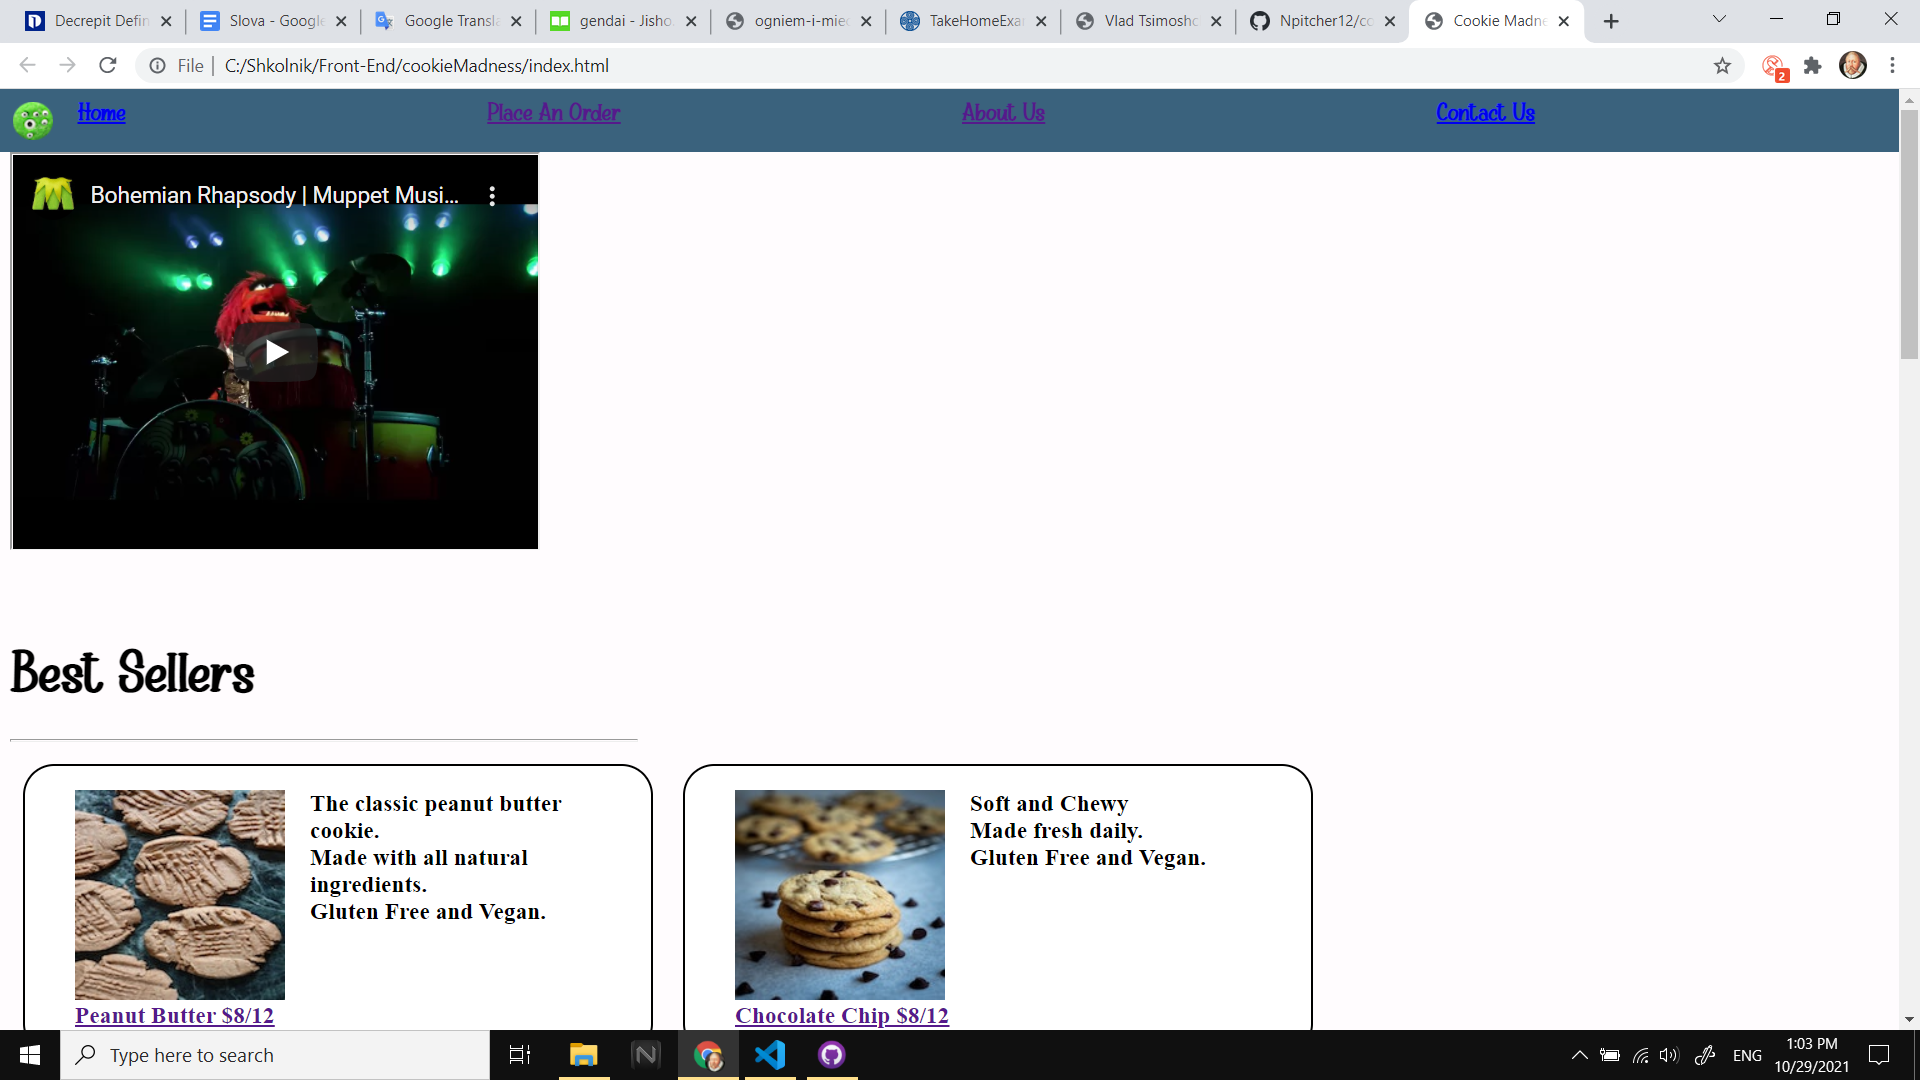
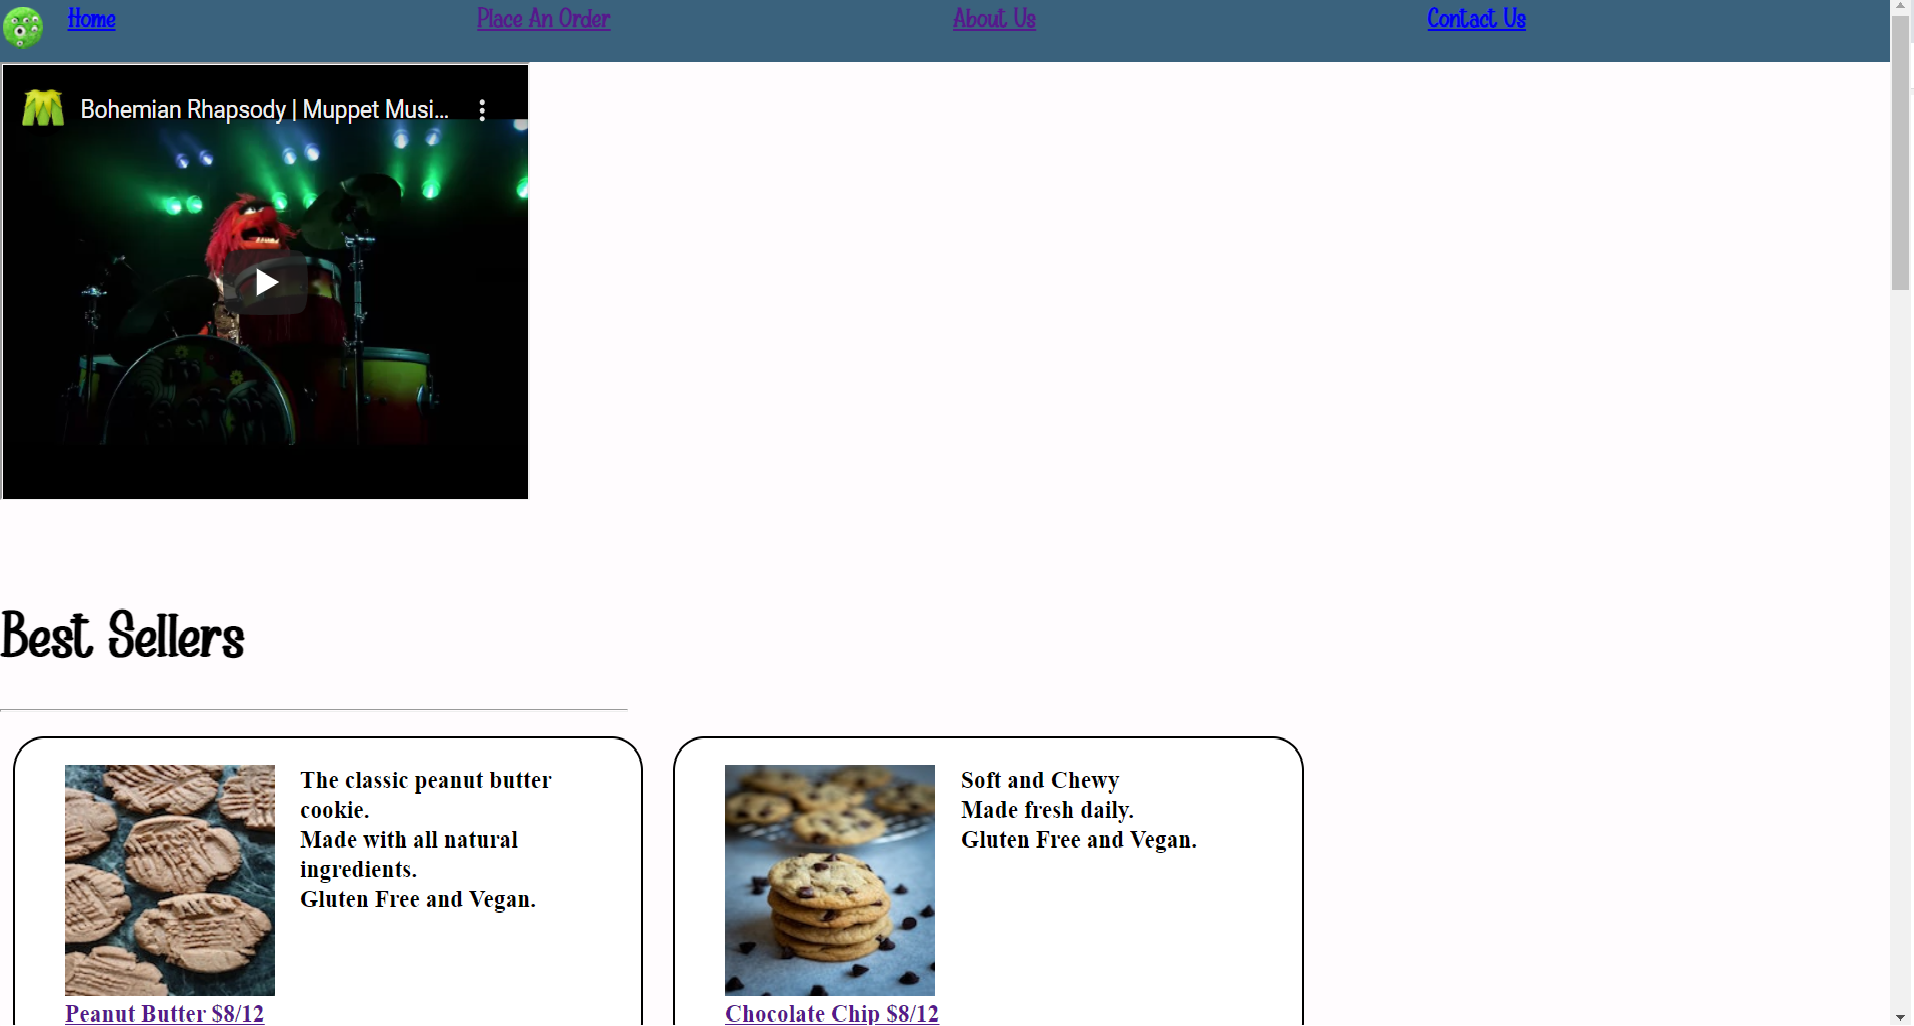
Finalized version

diff --git a/index.html b/index.html
@@ -10,13 +10,15 @@
 </head>
 <body>
     <div class = "main">
+        <!--This is the overlay that will be used for the contact menu-->
         <div id="overlay">
 
         </div>
+         <!--Left side of the main grid-->
         <div class = "left">
             <div class = "businessCard">
                 <div id="photo">
-                    Photo
+                    <img src="assets/images/person.jpg" width="100%" >
                 </div>
                 <div class = "contact properBox">
                     You can contact me here:
@@ -24,6 +26,7 @@
                     <button id = "contactButton">
                         Contact Me
                     </button>
+                    <!--This is the pop up menu-->
                     <div id = "contactMenu">
                         
                         <div id = "CloseButton">
@@ -53,6 +56,7 @@
                     If you want to connect with me, we can link on LinkedIn.
                 </p>
                 
+                <br>
                 
                 <a href="https://github.com/VladTsimoshchanka" target="_blank">Github</a>
                 <p>
@@ -61,6 +65,7 @@
             </div>
 
         </div>
+        <!--Right side of the main grid-->
         <div class = "right">
             <div class = "Bio properBox">
                 Vlad Tsimoshchanka<br>
@@ -103,8 +108,11 @@
                     </ul>
                 </div>
             </div>
+            <!--This section contains the links to all previous front-end projects-->
             <div class = "projectSection properBox">
-                Project Completed
+                Projects Completed
+                
+                
                 <div class = "projects">
                     <div id = "CookieMadness" class = "project">
                         Cookie CookieMadness
@@ -133,24 +141,14 @@
                         
                     </div>
                 </div>
+                
+                
             </div>
 
         </div>
-        <div class = "vest">
         
-        <div class = "rightSide">
-            
-        </div>
-        </div>
-
-        <div class = "pants">
-            <div class = "linksProjects">
-                
-                
-            </div>
-            
-        </div>
     </div>
+    <!--The bottom part of the page-->
     <div class = "miscellany properBox">
         
             <h2>

diff --git a/assets/styles.css b/assets/styles.css
@@ -4,14 +4,16 @@ html {
 .main {
     width: 100%;
     margin: 0 auto;
-    font-size: 25px;
+    font-size: 2vw;
     display: grid;
-    grid-template-columns: 20% 70%;
+    grid-template-columns: 30% 70%;
+    align-items: stretch;
     
     
 }
 body {
-    padding-left: 20%;
+    
+    
 }
 #CloseButton {
     cursor: pointer;
@@ -63,6 +65,7 @@ body {
 .rightSide {
     max-width: 60%;
     max-height: 100%;
+    align-items: stretch;
 }
 .resume {
     align-self: flex-start;
@@ -89,7 +92,7 @@ body {
 
 .properBox {
     border: solid  2px gray;
-    border-radius: 3%;
+    border-radius: 5px;
     background-color:#f1eeee;
 }
 
@@ -128,8 +131,7 @@ body {
 .project {
     background-color: beige;
    border: 1px solid gray;
-   margin-left: 2%;
-   margin-right: 2%;
+   margin: 2%;
 }
 
 #projectImage > a > img {
@@ -141,10 +143,12 @@ body {
     width: 100%;
 }
 .links {
+    font-size: 1.5vw;
     width: 100%;
+    align-self:flex-end;
 }
 
 .miscellany {
-    width: 90%;
+    width: 100%;
     
 }

diff --git a/assets/scripts.js b/assets/scripts.js
@@ -1,9 +1,9 @@
-
+//Get the elements by ID's
 var openButton = document.getElementById("contactButton");
 var submitButton = document.getElementById("submitButton");
 var closeButton = document.getElementById("CloseButton");
 
-
+//Making all of the buttons responsive
 submitButton.addEventListener('click', () => {
     var menu = document.getElementById("contactMenu");
     closeMenu(menu);
@@ -21,7 +21,7 @@ closeButton.addEventListener('click', () => {
     var menu = document.getElementById("contactMenu");
     closeMenu(menu);
 })
-
+//Functions for the menus
 function openMenu(menu){
     if (menu == null){
         return;
